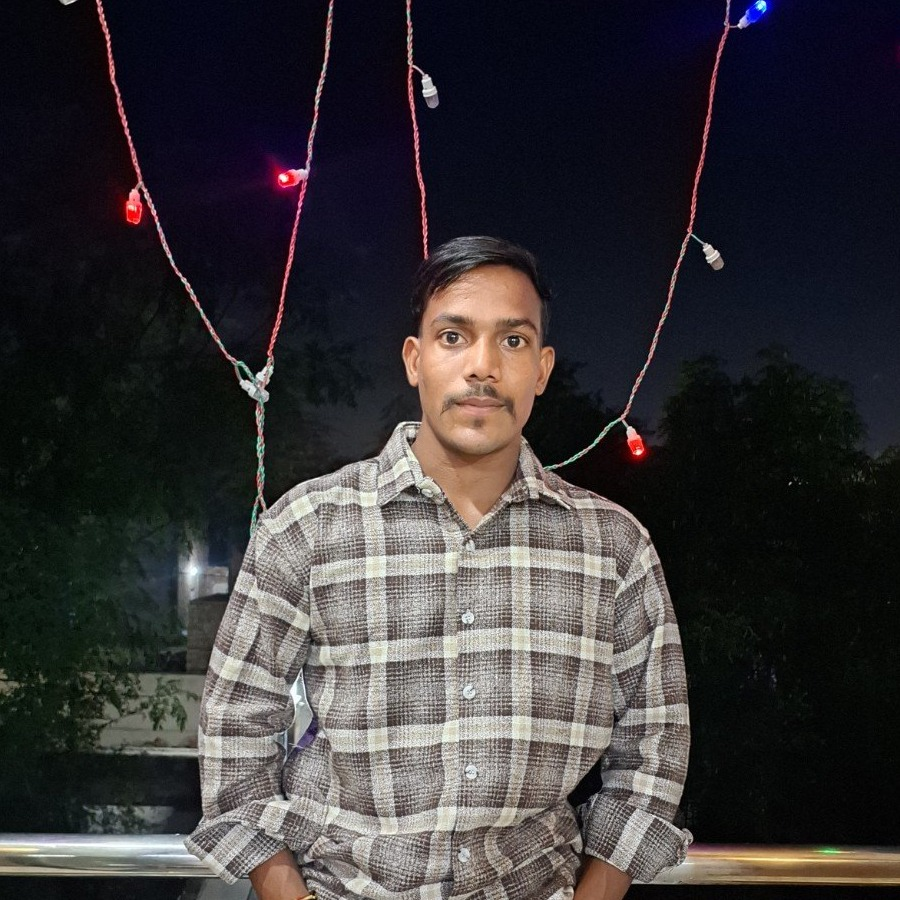
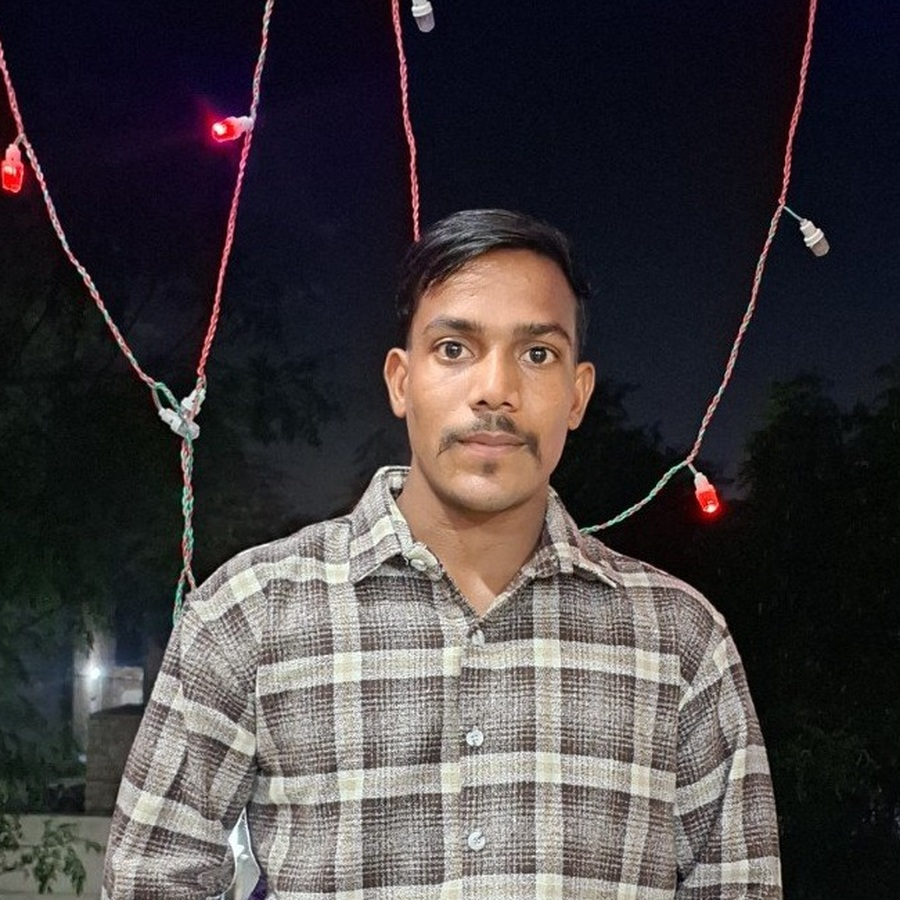
Add files via upload

diff --git a/style.css b/style.css
@@ -1,3 +1,23 @@
 *{box-sizing:border-box}html{scroll-behavior:smooth;scroll-padding-top:85px}body{margin:0;background:#080d18;color:#f4f7ff;font-family:"DM Sans",sans-serif;line-height:1.65;overflow-x:hidden}a{color:inherit;text-decoration:none}.gradient{background:linear-gradient(100deg,#91a1ff,#63e2cf);-webkit-background-clip:text;background-clip:text;color:transparent}.dot{color:#7d91ff}.ambient{position:absolute;width:420px;height:420px;border-radius:50%;filter:blur(125px);opacity:.13;pointer-events:none}.ambient-a{background:#617aff;top:60px;left:-220px}.ambient-b{background:#29cdb5;top:900px;right:-240px}.header{height:78px;max-width:1160px;margin:auto;padding:0 28px;display:flex;align-items:center;justify-content:space-between;border-bottom:1px solid #ffffff12;position:relative;z-index:10}.logo{display:flex;align-items:center;gap:9px;font:700 19px "Space Grotesk"}.logo>span:first-child{display:grid;place-items:center;width:36px;height:36px;border-radius:11px;background:linear-gradient(135deg,#8195ff,#55dfcb);color:#07111d;font-size:12px}.nav{display:flex;align-items:center;gap:30px;color:#a8b4ca;font-size:13px}.nav a:hover,.footer a:hover{color:#fff}.nav-contact{border:1px solid #667dff;padding:9px 15px;border-radius:9px;color:#fff}.menu-btn{display:none;background:none;border:0;color:#fff;font-size:25px}.wrap{max-width:1100px;margin:auto;padding-left:28px;padding-right:28px}.hero{min-height:680px;padding-top:75px;padding-bottom:90px;display:grid;grid-template-columns:1.05fr .95fr;align-items:center;gap:55px}.availability,.kicker{font-size:10px;letter-spacing:2px;font-weight:700;color:#91a2ff}.availability i{display:inline-block;width:7px;height:7px;border-radius:50%;background:#62e2c8;margin-right:8px;box-shadow:0 0 12px #62e2c8}.intro-line{color:#a7b2c7;margin:30px 0 2px}.hero h1{font:700 clamp(58px,8vw,88px)/.98 "Space Grotesk";letter-spacing:-5px;margin:0 0 20px}.hero h2{font:600 19px "Space Grotesk";margin:0;color:#e1e7f4}.hero h2 b{color:#6f819d}.hero-text{max-width:520px;color:#9eabc1;font-size:15px;margin:20px 0 27px}.actions{display:flex;gap:12px;flex-wrap:wrap}.btn{display:inline-flex;align-items:center;justify-content:center;gap:17px;padding:13px 18px;border-radius:9px;font-weight:700;font-size:13px;transition:transform .2s,box-shadow .2s}.btn:hover{transform:translateY(-3px)}.btn-primary{background:linear-gradient(110deg,#7d91ff,#52d9c7);color:#07111c;box-shadow:0 10px 30px #5b83ff22}.btn-outline{border:1px solid #34425d;color:#e7ecf7}.quick{display:flex;gap:23px;color:#8f9cb3;font-size:12px;margin-top:34px}.portrait-area{position:relative;min-height:470px;display:flex;flex-direction:column;align-items:center;justify-content:center;gap:22px}.portrait-ring{position:absolute;width:350px;height:350px;border-radius:50%;border:1px solid #8195ff55;box-shadow:0 0 0 22px #8195ff08,0 0 0 48px #5bdcc908}.portrait-frame{position:relative;width:300px;height:300px;border-radius:50%;overflow:hidden;border:4px solid #8b9dff;box-shadow:0 24px 75px #0009,0 0 35px #7187ff35;z-index:1;background:#172238}.portrait-frame:after{content:none}.portrait-frame img{width:100%;height:100%;object-fit:cover;object-position:center 32%;display:block}.floating-chip{position:absolute;z-index:3;padding:10px 14px;border-radius:9px;background:#192740;border:1px solid #ffffff25;box-shadow:0 12px 30px #0006;font-size:10px;letter-spacing:.8px}.chip-top{top:55px;right:0;color:#b3c0ff}.chip-bottom{bottom:62px;left:0;color:#b9c6d9;letter-spacing:0}.pulse{display:inline-block;width:7px;height:7px;border-radius:50%;background:#5cdec1;margin-right:7px}.photo-caption{position:relative;z-index:4;width:250px;text-align:center;text-shadow:0 2px 10px #000}.photo-caption b,.photo-caption small{display:block}.photo-caption b{font:600 19px "Space Grotesk"}.photo-caption small{color:#d1d8e7;font-size:11px}.section{padding-top:95px;padding-bottom:35px}.section-title{display:flex;justify-content:space-between;align-items:end;gap:25px;margin:13px 0 35px}.section-title h2,.resume-card h2,.contact-card h2{font:700 clamp(34px,5vw,48px)/1.12 "Space Grotesk";letter-spacing:-2px;margin:0}.section-title p{max-width:285px;color:#8492aa;font-size:13px}.about-grid{display:grid;grid-template-columns:1fr 1fr;gap:65px}.about-copy{color:#aab6ca;font-size:15px;max-width:540px}.about-copy p{margin:0 0 18px}.detail-card{display:grid;grid-template-columns:1fr 1fr;gap:24px;padding:25px;background:#111b2b;border:1px solid #ffffff14;border-radius:15px}.detail-card div{display:flex;flex-direction:column}.detail-card small{font-size:9px;letter-spacing:1.5px;color:#8492aa}.detail-card strong{font:600 14px "Space Grotesk";margin-top:7px}.detail-card span{font-size:11px;color:#8997ae}.skills{display:grid;grid-template-columns:1fr 1fr;gap:14px}.skill-card{display:flex;align-items:center;gap:14px;padding:17px;background:#111b2b;border:1px solid #ffffff14;border-radius:12px}.skill-icon{width:40px;height:40px;border-radius:10px;display:grid;place-items:center;font-weight:700}.html{background:#f16b3930;color:#ff9b70}.css{background:#7187ff30;color:#a5b4ff}.js{background:#e5c34c25;color:#f2d36d}.code{background:#47d7b82b;color:#70e5c9}.skill-card div:nth-child(2){display:flex;flex-direction:column}.skill-card strong{font:600 14px "Space Grotesk"}.skill-card span{font-size:11px;color:#8e9bb1}.skill-card em{font-style:normal;margin-left:auto;font-size:10px;color:#70dec6}.projects{display:grid;grid-template-columns:1fr 1fr;gap:17px}.project-card{border:1px solid #ffffff17;background:#111b2b;border-radius:15px;overflow:hidden}.project-preview{height:215px;padding:20px;background:radial-gradient(circle at 80% 15%,#637fff88,transparent 34%),linear-gradient(135deg,#1b2c4c,#0d1525)}.preview-top{display:flex;justify-content:space-between;color:#98a9cc;font-size:9px;letter-spacing:1px}.preview-copy{font:500 29px/1.12 "Space Grotesk";margin:40px 0 15px;color:#d6def2}.preview-copy b{color:#78e0d0}.preview-lines{display:flex;gap:7px}.preview-lines i{width:55px;height:5px;border-radius:5px;background:#7c91ff}.preview-lines i:nth-child(2){width:35px;background:#5adbc6}.preview-lines i:nth-child(3){width:20px;background:#ffffff35}.project-body{padding:22px}.project-body small,.next-project small{font-size:9px;letter-spacing:1.5px;color:#8fa1ff;font-weight:700}.project-body h3,.next-project h3{font:600 20px "Space Grotesk";margin:6px 0}.project-body p,.next-project p{font-size:12px;color:#9aa8be}.tags{display:flex;gap:7px;margin-top:15px}.tags span,.tag-soon{font-size:10px;color:#b4c0ff;background:#6e83ff20;border:1px solid #7187ff30;padding:5px 9px;border-radius:5px}.next-project{min-height:360px;padding:35px;display:flex;flex-direction:column;justify-content:center;border-style:dashed;background:#0d1523}.plus{font-size:43px;color:#7e93ff;margin-bottom:10px}.tag-soon{align-self:flex-start;margin-top:10px;color:#6fe0c6;background:#4bd9bf16;border-color:#4bd9bf30}.resume-card,.contact-card{margin-top:65px;padding:40px 44px;border:1px solid #ffffff1b;border-radius:18px;background:linear-gradient(120deg,#182946,#111c2d);display:flex;align-items:center;justify-content:space-between;gap:30px}.resume-card h2,.contact-card h2{font-size:37px;margin-top:12px}.resume-card p,.contact-card p{max-width:500px;color:#9ba9bf;font-size:13px}.contact-card{margin-top:0;background:linear-gradient(120deg,#162b3b,#111c2d)}.footer{max-width:1100px;margin:70px auto 0;padding:25px 28px 35px;border-top:1px solid #ffffff15;display:flex;align-items:center;justify-content:space-between;color:#8491a7;font-size:11px}.footer .logo{color:#f4f7ff;font-size:15px}.footer .logo>span:first-child{width:30px;height:30px;font-size:10px}.footer p{margin:0}
 @media(max-width:760px){.header{height:70px;padding:0 20px}.menu-btn{display:block}.nav{display:none;position:absolute;top:69px;left:0;right:0;background:#101827;padding:20px;flex-direction:column;gap:18px;border-bottom:1px solid #ffffff20}.nav.open{display:flex}.wrap{padding-left:21px;padding-right:21px}.hero{grid-template-columns:1fr;gap:20px;padding-top:65px;padding-bottom:55px}.hero h1{font-size:65px}.portrait-area{min-height:420px}.portrait-ring{width:320px;height:320px}.portrait-frame{height:270px;width:270px}.chip-top{right:0;top:28px}.chip-bottom{left:0;bottom:48px}.photo-caption{bottom:auto}.section{padding-top:75px}.section-title{display:block}.section-title p{margin-top:10px}.about-grid{grid-template-columns:1fr;gap:20px}.skills,.projects{grid-template-columns:1fr}.next-project{min-height:260px}.resume-card,.contact-card{padding:29px 24px;display:block}.resume-card .btn,.contact-card .btn{margin-top:17px}.resume-card h2,.contact-card h2{font-size:33px}.footer{margin-top:50px;padding:22px 20px;gap:12px;flex-wrap:wrap}.footer p{order:3;width:100%}}
 @media(max-width:390px){.hero h1{font-size:57px}.quick{gap:12px;font-size:10px}.detail-card{padding:18px;gap:18px}.skill-card{padding:14px}.skill-card em{font-size:9px}}
+
+/* Mobile portrait layout refinement */
+@media(max-width:760px){
+  .hero{min-height:0;gap:8px;padding-top:48px;padding-bottom:28px}
+  .portrait-area{min-height:0;height:auto;padding:26px 0 8px;gap:12px;justify-content:flex-start}
+  .portrait-ring{width:258px;height:258px;top:18px;left:50%;transform:translateX(-50%);box-shadow:0 0 0 14px #8195ff08,0 0 0 30px #5bdcc908}
+  .portrait-frame{width:220px;height:220px;flex:none}
+  .portrait-frame img{object-position:center 24%}
+  .chip-top{top:0;right:2px;padding:8px 11px;font-size:9px}
+  .chip-bottom{display:none}
+  .photo-caption{position:relative;width:auto;max-width:100%;margin-top:2px;text-align:center;text-shadow:none}
+  .photo-caption b{font-size:19px;line-height:1.25}
+  .photo-caption small{margin-top:3px;font-size:12px;color:#9eabc1}
+  .section{padding-top:58px}
+}
+@media(max-width:390px){
+  .portrait-ring{width:238px;height:238px}
+  .portrait-frame{width:202px;height:202px}
+  .chip-top{font-size:8px;right:-3px}
+}
